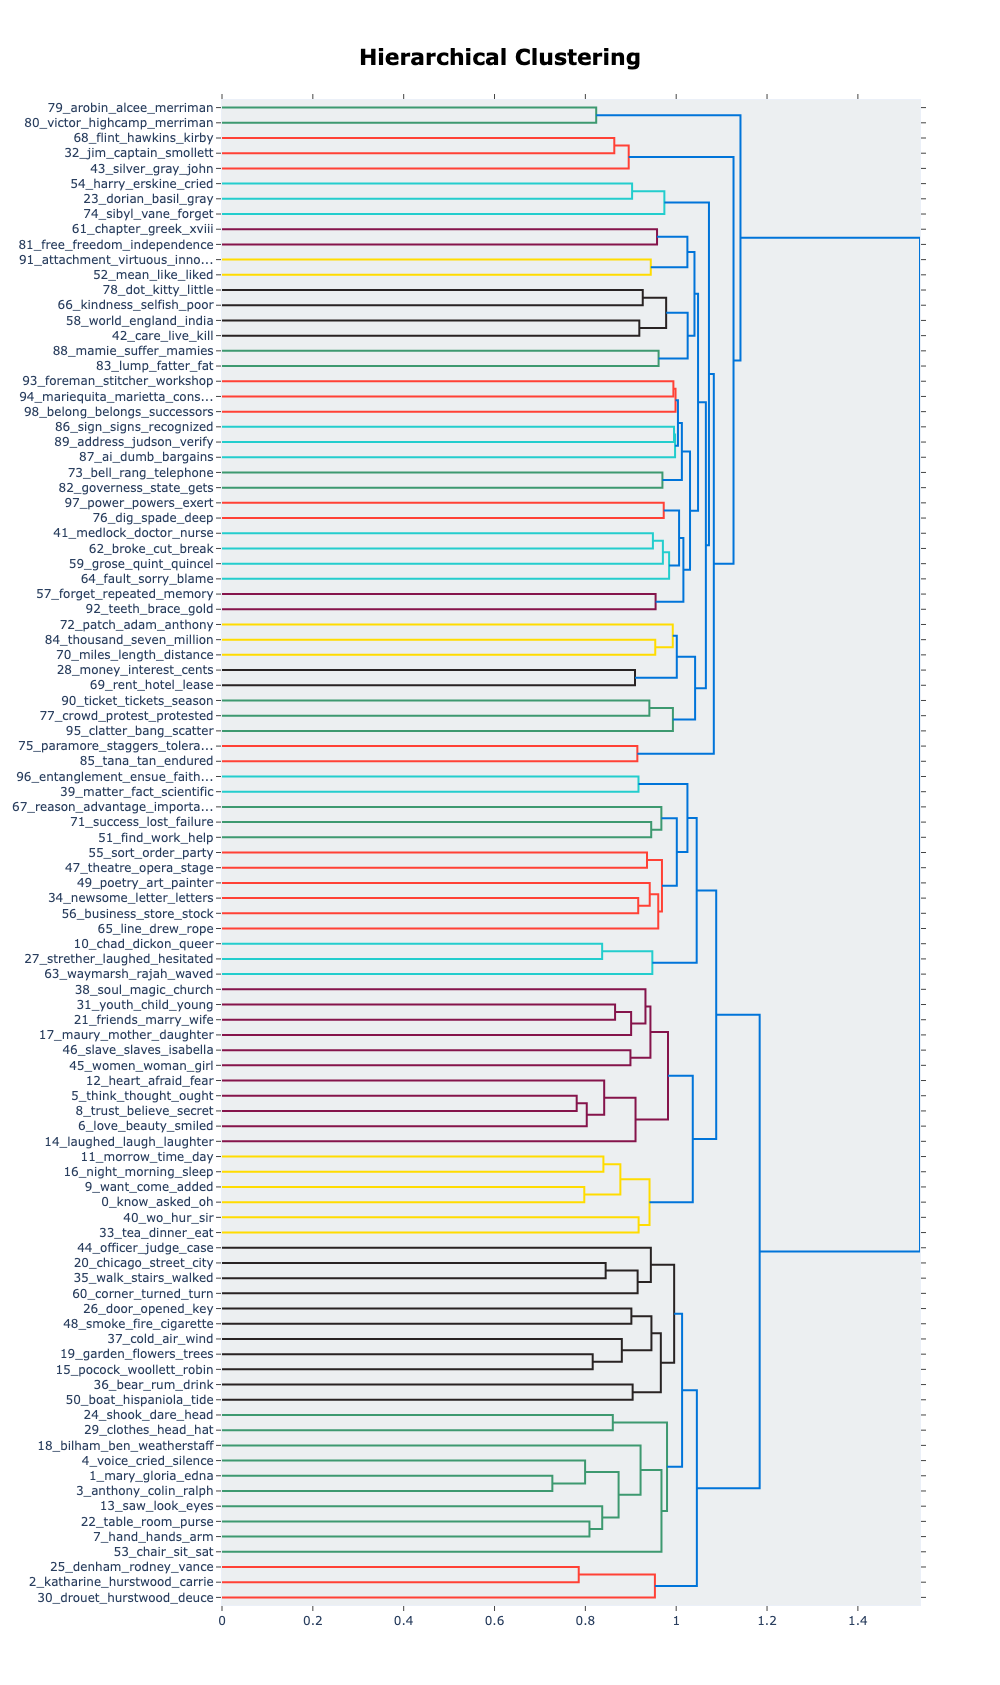
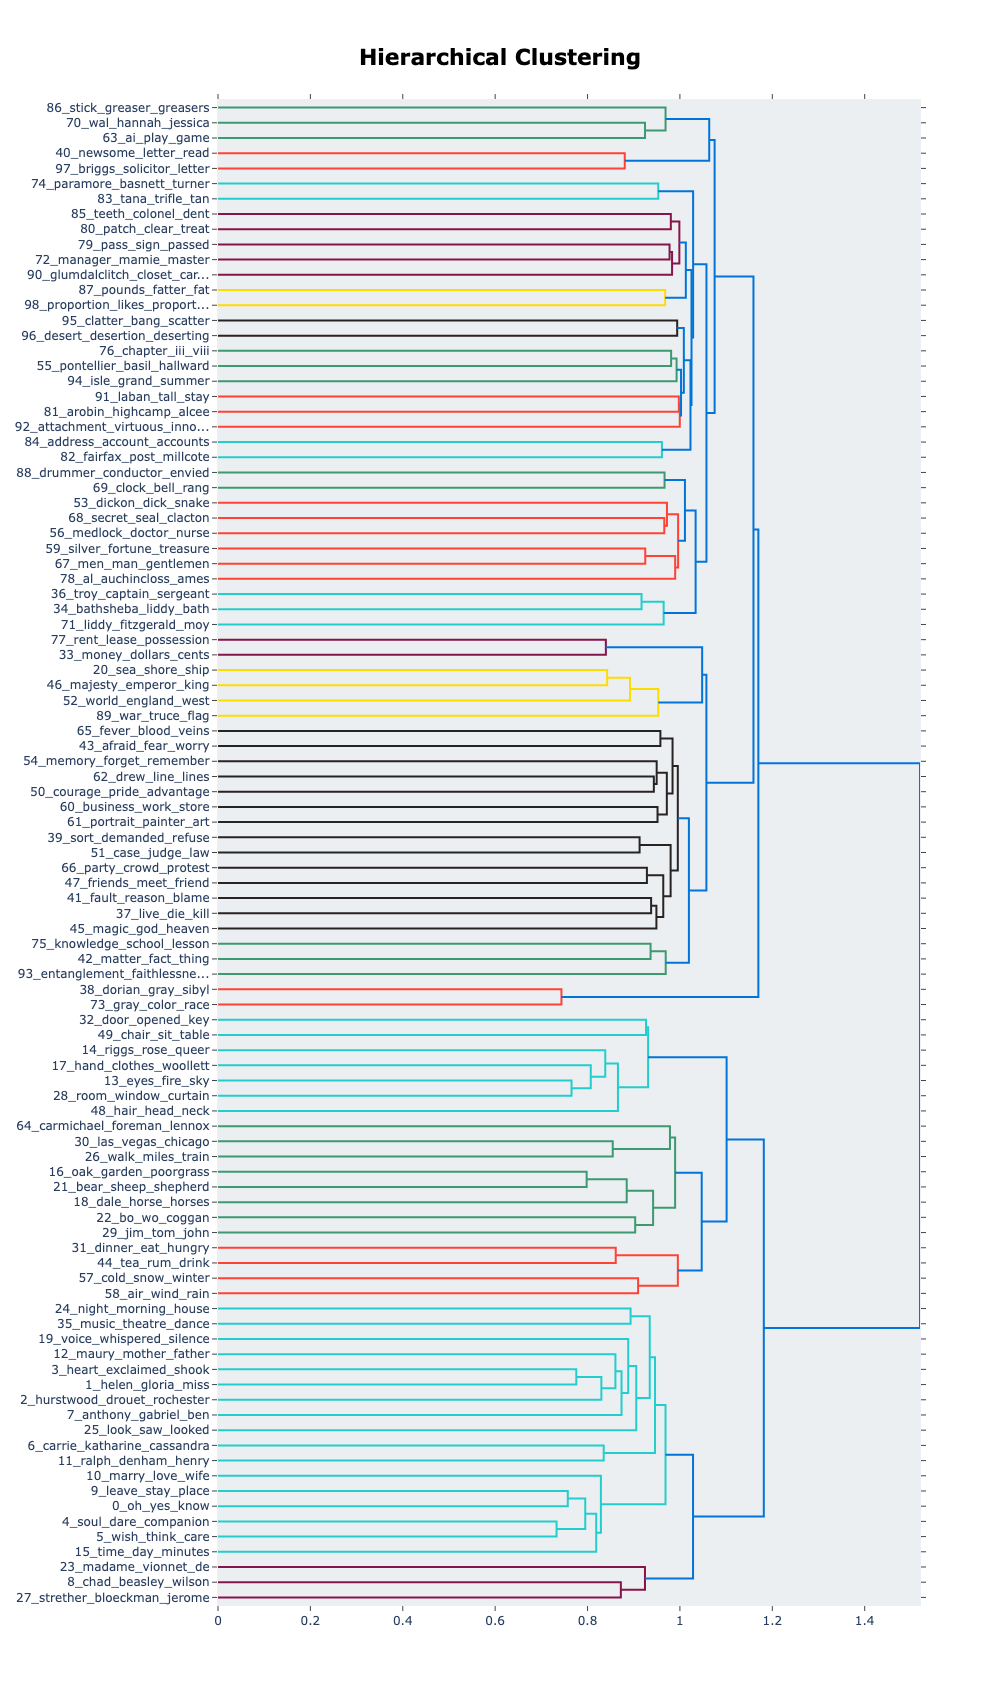
Limit sentences for topic modelling; update outputs accordingly.

Changed region(s): [[0.0, 0.0617, 0.775, 0.9567]]

diff --git a/episodes/03-word_representations.md b/episodes/03-word_representations.md
@@ -648,8 +648,10 @@ Before the first training run, it downloads the language model; this and the tra
 ```python
 from bertopic import BERTopic
 
+N_SENTENCES=100000
+
 topic_model = BERTopic(nr_topics=100)
-topics, probs = topic_model.fit_transform(sentences) 
+topics, probs = topic_model.fit_transform(sentences[:N_SENTENCES])
 ```
 
 ```output
@@ -673,18 +675,17 @@ topic_model.get_topic_info()
 ```
 
 ```output
-	Topic	Count	Name	Representation	Representative_Docs
-0	-1	21788	-1_eyes_little_time_man	[eyes, little, time, man, like, face, life, ro...	[good man true seen better man, young man mome...
-1	0	2968	0_mary_gloria_edna_miss	[mary, gloria, edna, miss, madame, gostrey, ma...	[gloria, mary, said mary]
-2	1	2124	1_dorian_henry_colin_ralph	[dorian, henry, colin, ralph, lord, denham, ro...	[lord henry looked table, know answered lord h...
-3	2	2077	2_yes_oh_ah_eh	[yes, oh, ah, eh, glad, right, better, god, su...	[oh yes, oh yes, oh yes]
-4	3	1625	3_katharine_carrie_cassandra_said	[katharine, carrie, cassandra, said, william, ...	[think katharine, katharine, katharine]
-...	...	...	...	...	...
-95	94	16	94_isabella_prison_quadroon_sold	[isabella, prison, quadroon, sold, previous, u...	[immediately took daughter aside informed prev...
-96	95	12	95_foreman_workshop_ogre_motioning	[foreman, workshop, ogre, motioning, gait, bar...	[head foreman round stopped machine, foreman, ...
-97	96	12	96_ames_superiority_funniest_thorne	[ames, superiority, funniest, thorne, dora, sa...	[going asked ames, said ames, ames]
-98	97	11	97_clatter_bang_scatter_crash	[clatter, bang, scatter, crash, lads, dogs, fi...	[clatter clatter clatter bang, clatter clatter...
-99	98	11	98_entanglement_ensue_faithlessness_repugnant	[entanglement, ensue, faithlessness, repugnant...	[entanglement carrie anxious change sort, carr...
+0 	-1 	34182 	-1_little_like_eyes_face 	[little, like, eyes, face, time, man, day, roo... 	[said thought day, rate little gentleman early...
+1 	0 	10433 	0_oh_yes_know_asked 	[oh, yes, know, asked, mean, sir, come, ah, te... 	[oh, oh, oh come]
+2 	1 	4930 	1_helen_gloria_miss_mary 	[helen, gloria, miss, mary, edna, jane, martha... 	[helen, helen, helen]
+3 	2 	2471 	2_hurstwood_drouet_rochester_boldwood 	[hurstwood, drouet, rochester, boldwood, bilha... 	[said hurstwood, said hurstwood, said hurstwood]
+4 	3 	2411 	3_heart_exclaimed_shook_cried 	[heart, exclaimed, shook, cried, tears, laugh,... 	[shook head, shook head, laughed shook head]
+... 	... 	... 	... 	... 	...
+95 	94 	11 	94_isle_grand_summer_drove 	[isle, grand, summer, drove, damsel, vacation,... 	[let mind wander stay grand isle tried discove...
+96 	95 	11 	95_clatter_bang_scatter_lads 	[clatter, bang, scatter, lads, crash, find, sh... 	[clatter clatter clatter bang, clatter clatter...
+97 	96 	11 	96_desert_desertion_deserting_tolerance 	[desert, desertion, deserting, tolerance, mise... 	[found safety desert, like desert, desert]
+98 	97 	10 	97_briggs_solicitor_letter_vested 	[briggs, solicitor, letter, vested, urgency, l... 	[briggs solicitor street london, briggs london...
+99 	98 	10 	98_proportion_likes_proportions_theirs 	[proportion, likes, proportions, theirs, large... 	[proportion shifting trouble likes, proportion...
 ```
 
 Because the topic modelling algorithm has no information about the texts or topics to start with, it randomly assigns words to topics initially.
@@ -720,13 +721,13 @@ topic_model.visualize_hierarchy()
 To find topics that are associated to a particular term, use the `.find_topics()` method:
 
 ```python
-topics, probs = topic_model.find_topics("sea")
-print(topics)
+sea_topics, probs = topic_model.find_topics("sea")
+print(sea_topics)
 ```
 
 Visualize the terms of the topics found:
 ```python
-topic_model.visualize_barchart(topics)
+topic_model.visualize_barchart(sea_topics)
 ```
 
 ![](fig/02-topics-sea.png)
@@ -735,17 +736,18 @@ During the model training, all texts in the data have been assigned to a topic d
 You can also use the model to infer the topics of previously unseen texts based on the same model:
 
 ```python
-topics, probs = topic_model.transform(["A short text about scientific discoveries"])
+topics, probs = topic_model.transform(["a short text about water"])
 print(topics, probs)
 ```
 
 ```output
-[31] [0.47929027]
+[20] [1.]
 ```
 
-This example was assigned to topic 31, with a probability of 0.479.
-Again, these numbers will be slightly different per run.
-The model can even assign multiple topics to a text, the `topics` and `probs` lists contain the according number of values.
+This example was assigned to topic 20, with a score of 1.0.
+Again, these numbers can vary per run.
+For less trivial sentences, the model can assign multiple topics to a text.
+In that case, the `topics` and `probs` lists contain the according number of values.
 
 ::: challenge
 
@@ -758,11 +760,15 @@ The model can even assign multiple topics to a text, the `topics` and `probs` li
 ::: solution
 
 1. There is no general 'true' label for a topic, but looking at the top word of a topic should give an idea of the concept(s) it refers to, for instance:
-`['mary', 'gloria', 'edna', 'miss', 'madame']` -> 'female names and titles'
-`['mean', 'oh', 'yes', 'ah', 'eh']` -> 'acknowledging reactions''
-`['know', 'tell', 'said', 'told']` -> 'telling'
+`[helen, gloria, miss, mary, edna, jane, martha, ...` -> 'female names and titles'
+`[hurstwood, drouet, rochester, boldwood, ...` -> 'family names'
+`[heart, exclaimed, shook, cried, tears, laugh, ...` -> 'emotions'
 
-2. TODO
+2.
+
+- Omitting the number of topics (`nr_topics`) results in an 'optimal' number, according to the clustering algorithm.
+- Limiting the number of topics forces the algorithm to merge similar topics.
+- Minimum topic sizes prevents the algorithm to form clusters of very few documents.
 
 3. Evaluation methods:
 